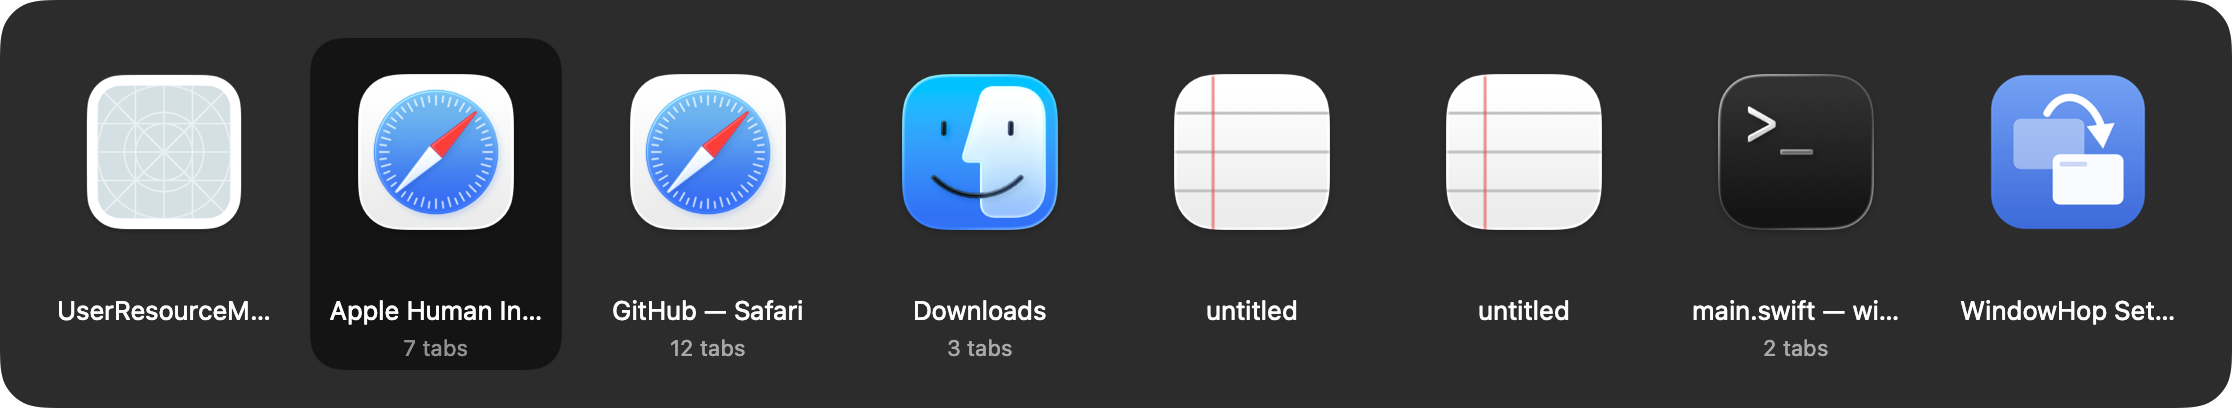
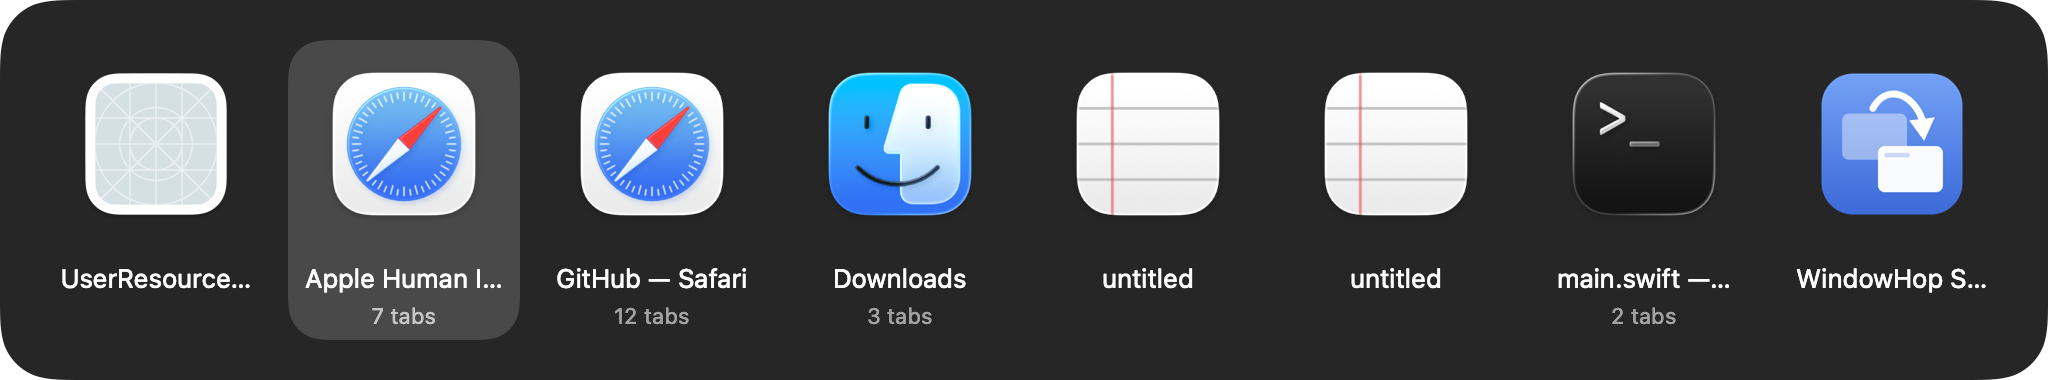
feat(ui): match the native switcher's dark-glass look
HUD panel material (stable on bright desktops), native selection ramp
(lighter-than-panel in dark, darker in light via labelColor alpha),
badge-style overlay controls (white glyph on gray circle), and density
matched to Apple's switcher — all via DesignTokens.

diff --git a/Sources/WindowHopCore/UI/DesignTokens.swift b/Sources/WindowHopCore/UI/DesignTokens.swift
@@ -5,8 +5,8 @@ import AppKit
 /// dimensions — change a token here and every surface follows.
 enum DesignTokens {
     // MARK: Panel chrome
-    static let panelPadding: CGFloat = 14
-    static let panelCornerRadius: CGFloat = 22
+    static let panelPadding: CGFloat = 16
+    static let panelCornerRadius: CGFloat = 28
     /// The grid may use up to this fraction of the screen's width/height.
     static let panelMaxWidthFraction: CGFloat = 0.88
     static let panelMaxHeightFraction: CGFloat = 0.85
@@ -17,9 +17,9 @@ enum DesignTokens {
     static let overlayInset: CGFloat = 8
 
     // MARK: Tiles (both appearances)
-    static let tileSelectionCornerRadius: CGFloat = 16
-    static let tileSelectionInset: CGFloat = 5
-    static let tileLabelInset: CGFloat = 10
+    static let tileSelectionCornerRadius: CGFloat = 18
+    static let tileSelectionInset: CGFloat = 4
+    static let tileLabelInset: CGFloat = 8
     static let titleFontSize: CGFloat = 13
     static let tabsFontSize: CGFloat = 11
     static let titleHeight: CGFloat = 18
@@ -28,14 +28,14 @@ enum DesignTokens {
     static let tabsY: CGFloat = 7
     static let contentTopInset: CGFloat = 10
 
-    // MARK: App Icons appearance
-    static let appIconsTileSize = NSSize(width: 136, height: 176)
-    static let appIconsContentHeight: CGFloat = 104
-    static let largeIconSize: CGFloat = 96
+    // MARK: App Icons appearance (density matched to the native switcher)
+    static let appIconsTileSize = NSSize(width: 124, height: 158)
+    static let appIconsContentHeight: CGFloat = 92
+    static let largeIconSize: CGFloat = 88
 
     // MARK: Window Previews appearance
-    static let previewsTileSize = NSSize(width: 220, height: 186)
-    static let previewsContentHeight: CGFloat = 114
+    static let previewsTileSize = NSSize(width: 204, height: 170)
+    static let previewsContentHeight: CGFloat = 100
     static let previewFallbackIconSize: CGFloat = 72
     static let previewCornerRadius: CGFloat = 8
     /// The app icon badged onto a snapshot — large enough to identify at a glance.
@@ -53,13 +53,19 @@ enum DesignTokens {
     static let previewPlaceholderIconSize: CGFloat = 48
     static let previewFillInFadeDuration: TimeInterval = 0.15
 
-    // MARK: Colors (semantic only — adapt to appearance and Increase Contrast)
-    /// Selection fill matching the native switcher's neutral rounded rectangle.
-    static var selectionFill: NSColor { .secondarySystemFill }
-    /// Placeholder card behind a not-yet-captured preview.
-    static var previewPlaceholderFill: NSColor { .quaternarySystemFill }
-    /// Panel background material (native floating-panel look).
-    static let panelMaterial: NSVisualEffectView.Material = .popover
-    /// Hierarchical tint for the overlay controls (close, settings).
-    static var overlayControlColor: NSColor { .secondaryLabelColor }
+    // MARK: Colors
+    /// Selection: the native switcher's rounded rectangle is LIGHTER than the
+    /// panel in Dark Mode and darker in Light Mode — labelColor with low alpha
+    /// gives exactly that in both, resolved under the panel's appearance.
+    static var selectionFill: NSColor { .labelColor.withAlphaComponent(0.16) }
+    /// Placeholder card behind a not-yet-captured preview (a quieter step of
+    /// the same ramp so it never competes with the selection).
+    static var previewPlaceholderFill: NSColor { .labelColor.withAlphaComponent(0.07) }
+    /// The native switcher's stable dark-glass panel (adaptive HUD material —
+    /// far less see-through than a popover, so bright desktops can't wash it out).
+    static let panelMaterial: NSVisualEffectView.Material = .hudWindow
+    /// Overlay controls use the Apple badge idiom (notification/Safari-tab
+    /// close): a filled gray circle with a white glyph — legible on any content.
+    static var overlayGlyphColor: NSColor { .white }
+    static var overlayCircleColor: NSColor { NSColor(white: 0.3, alpha: 0.85) }
 }

diff --git a/Sources/WindowHopCore/UI/SwitcherPanel.swift b/Sources/WindowHopCore/UI/SwitcherPanel.swift
@@ -71,11 +71,12 @@ public final class SwitcherPanel: NSPanel {
 
         // panel-chrome settings control: revealed while the pointer is inside the
         // panel; always present for accessibility, and ⌘, works without a pointer
-        settingsButton.image = NSImage(systemSymbolName: "gearshape.fill",
+        settingsButton.image = NSImage(systemSymbolName: "gearshape.circle.fill",
                                        accessibilityDescription: "WindowHop Settings")?
             .withSymbolConfiguration(NSImage.SymbolConfiguration(pointSize: DesignTokens.chromeButtonSymbolSize,
-                                                                  weight: .medium)
-                .applying(.init(hierarchicalColor: DesignTokens.overlayControlColor)))
+                                                                  weight: .semibold)
+                .applying(.init(paletteColors: [DesignTokens.overlayGlyphColor,
+                                                DesignTokens.overlayCircleColor])))
         settingsButton.isBordered = false
         settingsButton.imagePosition = .imageOnly
         settingsButton.target = self

diff --git a/Sources/WindowHopCore/UI/SwitcherTileView.swift b/Sources/WindowHopCore/UI/SwitcherTileView.swift
@@ -89,10 +89,12 @@ final class SwitcherTileView: NSView {
         tabsLabel.lineBreakMode = .byTruncatingTail
         addSubview(tabsLabel)
 
-        // hierarchical fill: the standard Apple overlay-close look
+        // palette fill: white glyph on a gray circle — the Apple overlay-close
+        // badge (notifications, Safari tabs); legible over any snapshot
         let closeConfiguration = NSImage.SymbolConfiguration(pointSize: DesignTokens.closeButtonSymbolSize,
-                                                             weight: .medium)
-            .applying(.init(hierarchicalColor: DesignTokens.overlayControlColor))
+                                                             weight: .semibold)
+            .applying(.init(paletteColors: [DesignTokens.overlayGlyphColor,
+                                            DesignTokens.overlayCircleColor]))
         closeButton.image = NSImage(systemSymbolName: "xmark.circle.fill",
                                     accessibilityDescription: "Close Window")?
             .withSymbolConfiguration(closeConfiguration)

diff --git a/CHANGELOG.md b/CHANGELOG.md
@@ -1,5 +1,20 @@
 # Changelog
 
+## 1.0.4 — 2026-07-08
+
+Visual pass to match the native macOS switcher, reviewed primarily in Dark Mode:
+
+- The panel now uses the stable dark-glass HUD material — bright desktops can no
+  longer wash it out (the popover material was too transparent).
+- Selection is the native idiom: a rounded rectangle *lighter* than the panel in
+  Dark Mode (white ~16%), darker in Light Mode — no more near-black selection.
+- Close and Settings controls use the Apple badge style: white glyph on a filled
+  gray circle (like notification and Safari-tab close buttons) — high contrast on
+  any snapshot.
+- Density matched to the native switcher: tighter tiles (124×158 icons, 204×170
+  previews), larger panel corner radius, quieter placeholder fill.
+
+
 ## 1.0.3 — 2026-07-07
 
 - **Permission loop, part 2**: the welcome window now detects macOS App
